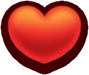
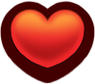
+ Keyboard Control + Score Bar + Bug Fix (EndGame Text, Score Calculation, 404, Heart Image) + API Calls (Begin & End)

diff --git a/conversation_simulator/src/states/Game.js b/conversation_simulator/src/states/Game.js
@@ -29,6 +29,7 @@ export default class extends Phaser.State {
     }
 
     create() {
+        this.cursors = game.input.keyboard.createCursorKeys();
         this.phaserJSON = this.cache.getJSON('gameSetup');
          window.speechSynthesis.getVoices();
 
@@ -82,6 +83,19 @@ export default class extends Phaser.State {
 
 
                 enterSpriteButton.events.onInputDown.add(this.SayItByCustomer, this);
+
+
+
+                let deleteSpriteButton = game.add.sprite(0, 0, 'iconDelete');
+                //enterSpriteButton.scale.set(0.7 * game.scaleRatio);
+                deleteSpriteButton.anchor.set(0.5);
+                deleteSpriteButton.x = this.textBox.x + (this.textBox.width * game.scaleRatio) + enterSpriteButton.width+5;
+                deleteSpriteButton.y = this.textBox.y + this.textBox.height / 2 ;
+                deleteSpriteButton.inputEnabled = true;
+                deleteSpriteButton.input.priorityID = 0;
+
+
+                deleteSpriteButton.events.onInputDown.add(this.deleteBox, this);
                 // let menuSpriteButton = game.add.sprite(this.game.width - 100, 100, 'openmenu');
                 // menuSpriteButton.scale.set(0.7 * game.scaleRatio);
                 // menuSpriteButton.anchor.set(0.5);
@@ -109,6 +123,9 @@ export default class extends Phaser.State {
             text: '0',
             cloudEnabled: true
         });
+
+
+
         this.addScoreText = new FreeText({
             game: this.game,
             x: this.world.width * 0.75,
@@ -173,21 +190,22 @@ export default class extends Phaser.State {
                 this.patienceBarsGroup.x =  this.world.width * 0.1;
                 this.patienceBarsGroup.y = this.game.world.centerY * 0.1 - 15;
 
-                
                 this.ConversationStart();
             });
         this.customer.setAnimationSpeedPercent(100);
         this.customer.playAnimationByName('_RUN');
+
+
         game.add.tween(this.customer).to({ x: this.world.width * 0.7 * game.scaleRatio }, 1500, Phaser.Easing.Linear.None, true, 1500)
             .onComplete.add(() => {
                 this.customer.setAnimationSpeedPercent(100);
                 this.customer.playAnimationByName('_IDLE');
-             
-                this.scoreText = game.add.text(this.world.width * 0.78, this.game.world.centerY * 0.1, 'Score : 0', {
-                    font: "40px Berkshire Swash",
+                var image = game.add.image(this.world.width * 0.78, this.game.world.centerY * 0.02, 'scoreBar');
+                this.scoreText = game.add.text(this.world.width * 0.89, this.game.world.centerY * 0.16, '0', {
+                    font: "60px Berkshire Swash",
                     fill: 'black'
                 });
-                this.scoreText.anchor.setTo(0,0.5);
+                this.scoreText.anchor.setTo(0.5,0.5);
             });
 
     }
@@ -264,8 +282,10 @@ export default class extends Phaser.State {
     }
 
     SayItByCustomer() {
+      
         console.log('textnya = ' +this.textBox.value.length)
         if(this.textBox.value.length>0 ){
+        this.onSelection = false;
         this.destroySideMenu();
 
         var text = this.textBox.value;
@@ -300,6 +320,12 @@ export default class extends Phaser.State {
         })
 
         }
+    }
+
+     deleteBox() {
+
+        this.textBox.setText("");
+        
     }
 
     SayItByCook(text, submitResult) {
@@ -388,6 +414,67 @@ export default class extends Phaser.State {
     }
 
     update() {
+        if(this.onSelection){
+            
+
+            if ( this.game.input.keyboard.justPressed(Phaser.KeyCode.RIGHT) ){
+                 console.log("just pressed 1");
+                 console.log("pencet kanan" + this.selection +" - "+this.ansLength);
+                 this.listView.items[this.selection].frame = 0;
+                
+
+                    this.selection+=1;
+                    if(this.selection>this.ansLength-1){
+                        this.selection = 0;
+                    }
+
+                     this.listView.items[this.selection].frame = 1;
+            }
+
+            if ( this.game.input.keyboard.justPressed(Phaser.KeyCode.LEFT) ){
+                 console.log("just pressed 1");
+                 console.log("pencet kanan" + this.selection +" - "+this.ansLength);
+                 this.listView.items[this.selection].frame = 0;
+                
+
+                    this.selection-=1;
+                    if(this.selection<0){
+                        this.selection = this.ansLength-1;
+                    }
+
+                     this.listView.items[this.selection].frame = 1;
+            }
+
+            if ( this.game.input.keyboard.justPressed(Phaser.KeyCode.UP) || this.game.input.keyboard.justPressed(Phaser.KeyCode.SPACEBAR) ){
+                 //SayItByCustomer(this.listView.items[this.selection].text);
+                 this.addCharToNode(this.listView.items[this.selection]);
+            }
+
+            if ( this.game.input.keyboard.justPressed(Phaser.KeyCode.DOWN) || this.game.input.keyboard.justPressed(Phaser.KeyCode.BACKSPACE) ){
+                 //SayItByCustomer(this.listView.items[this.selection].text);
+                 this.deleteBox();
+            }
+
+              if ( this.game.input.keyboard.justPressed(Phaser.KeyCode.ENTER) ){
+                 this.SayItByCustomer();
+               
+            }
+
+
+            /*
+            if (this.cursors.right.isDown)
+            {
+                
+
+            }
+            else if (this.cursors.left.isDown)
+            {
+                game.camera.x += 4;
+            }
+            */
+
+        }
+
         //this.spritesGroup.updateAnimation();
         this.cook.updateAnimation();
          this.customer.updateAnimation();
@@ -395,7 +482,7 @@ export default class extends Phaser.State {
         this.textBox.endFocus();
         // Keep the score up to date
         if (this.stateMachine && this.scoreText) {
-            this.scoreText.text = 'Score : '+this.stateMachine.getScore();
+            this.scoreText.text = this.stateMachine.getScore();
         }
 
     }
@@ -557,7 +644,7 @@ export default class extends Phaser.State {
     }
 
     createSideMenu() {
-
+        this.onSelection = true;
 
         this.sidemenu = this.game.add.sprite(this.game.width, this.game.height, 'sidemenu');
         this.sidemenu.height = this.game.height;
@@ -576,7 +663,13 @@ export default class extends Phaser.State {
 
         var i = 0;
         var rect;
+
+        this.selection = 0;
+        this.ansLength = 0;
+
+
         this.stateMachine.getAnswerWords().forEach((word) => {
+            this.ansLength+=1
             var item = this.game.add.sprite(0, 0, 'sidebg');
            // item.scale.set(0.8 * game.scaleRatio);
             item.text = word;
@@ -586,6 +679,7 @@ export default class extends Phaser.State {
             character.scale.set((2.05 - (word.length*0.17)) * game.scaleRatio);
             rect = new Phaser.Rectangle(item.x, item.y, item.width, item.height);
             character.alignIn(rect, Phaser.CENTER, 0, 0);
+            item.frame = 0;
             item.addChild(character);
 
             character.inputEnabled = true;
@@ -598,6 +692,10 @@ export default class extends Phaser.State {
             item.events.onInputDown.add(this.addCharToNode, this);
             this.listView.add(item);
         });
+
+        console.log("asd = "+ this.listView.items[2].text);
+        this.listView.items[this.selection].frame = 1;
+
        /* this.listView.grp.visible = false;
         this.openSidemenu = this.game.add.tween(this.sidemenu).to({ y: this.game.height }, 1000, Phaser.Easing.Exponential.Out);
         this.closeSidemenu = this.game.add.tween(this.sidemenu).to({ y: this.game.height }, 1000, Phaser.Easing.Exponential.Out);

diff --git a/conversation_simulator/src/states/Splash.js b/conversation_simulator/src/states/Splash.js
@@ -61,11 +61,11 @@ export default class extends Phaser.State {
         this.load.xml('wizardAnimations', 'assets/images/res/'+phaserJSON.leftperson+'/anim.scml')
 
         // load bar for patience
-        this.load.spritesheet('patienceBar5', 'assets/images/res/lopelope.png', 89, 75);
-        this.load.spritesheet('patienceBar4', 'assets/images/res/lopelope.png', 89, 75);
-        this.load.spritesheet('patienceBar3', 'assets/images/res/lopelope.png', 89, 75);
-        this.load.spritesheet('patienceBar2', 'assets/images/res/lopelope.png', 89, 75);
-        this.load.spritesheet('patienceBar1', 'assets/images/res/lopelope.png', 89, 75);
+        this.load.spritesheet('patienceBar5', 'assets/images/res/lopelope.png', 95, 84);
+        this.load.spritesheet('patienceBar4', 'assets/images/res/lopelope.png', 95, 84);
+        this.load.spritesheet('patienceBar3', 'assets/images/res/lopelope.png', 95, 84);
+        this.load.spritesheet('patienceBar2', 'assets/images/res/lopelope.png', 95, 84);
+        this.load.spritesheet('patienceBar1', 'assets/images/res/lopelope.png', 95, 84);
 
         this.load.atlas('gnome', 'assets/images/res/'+phaserJSON.rightperson+'/anim.png', 'assets/images/res/'+phaserJSON.rightperson+'/anim.json')
         this.load.xml('gnomeAnimations', 'assets/images/res/'+phaserJSON.rightperson+'/anim.scml')
@@ -74,6 +74,8 @@ export default class extends Phaser.State {
         this.load.image('iconAttack', 'assets/images/res/icon-attack.png');
         this.load.image('iconHome', 'assets/images/icon-home.png');
         this.load.image('iconPlay', 'assets/images/res/button-start.png');
+         this.load.image('scoreBar', 'assets/images/res/score-board.png');
+         this.load.image('iconDelete', 'assets/images/res/icon-back.png');
 
         // bg
         
@@ -88,14 +90,14 @@ export default class extends Phaser.State {
         // audio
         this.load.audio('click', 'assets/audio/Click.wav')
        
-        //this.load.atlas('flags', 'assets/images/flags/flags.png', 'assets/images/flags/flags.json')
-        this.load.spritesheet('heart', 'assets/images/ss-heart.png', 48, 48, 6)
-
         //side menu
         this.load.spritesheet('sidebg', 'assets/images/res/sidebg.png', 115, 117);
 
         // game state data
         this.load.json('stateData', 'assets/data/'+phaserJSON.datafile);
+
+
+
     }
 
     loadStart() {
@@ -119,12 +121,13 @@ export default class extends Phaser.State {
         // video.play(false);
         // //  x, y, anchor x, anchor y, scale x, scale y
         // video.addToWorld(game.world.centerX, game.world.centerY, 0.5, 0.5, 0.5, 0.5);
-        let videoDuration = 6
+        let videoDuration = 1
         this.time.events.add(Phaser.Timer.SECOND * videoDuration, () => {
             document.querySelector('#intro').style.display = 'none'
             document.querySelector('#content').style.display = 'block'
             //this.state.start('GameOver', false, false, '4234')
             this.state.start('Menubefore');
+            //this.state.start('Game');
               
 
         }, this)

diff --git a/conversation_simulator/src/states/GameOver.js b/conversation_simulator/src/states/GameOver.js
@@ -20,17 +20,16 @@ import PhaserJuicy from '../libs/juicy'
 import config from '../config';
 import WebFont from 'webfontloader'
 import Spriter from '../libs/spriter'
+import jQuery from 'jquery'
 
 export default class extends Phaser.State {
     init(customParam) {
-        		
+        this.phaserJSON = this.cache.getJSON('gameSetup');	
 		this.game.stage.backgroundColor = "#00B3C1";
 	    let gameover = game.add.sprite(game.world.centerX, game.world.centerY, 'gameover');
         gameover.anchor.set(0.5);
-		
-        this.setText('asd'+customParam);
-
-       
+        this.setText(customParam);
+         jQuery.post( "https://dtml.org/api/User/Activity", { activity: this.phaserJSON.title, time: "",  eventType: "GameCompleted", EventData: customParam } );
     }
 
     shutdown() {

diff --git a/conversation_simulator/src/states/Menu.js b/conversation_simulator/src/states/Menu.js
@@ -18,6 +18,7 @@ import FreeText from '../sprites/FreeText'
 import Border from '../sprites/Border'
 import Spriter from '../libs/spriter'
 import Background from '../sprites/background'
+import jQuery from 'jquery'
 
 
 
@@ -62,6 +63,7 @@ export default class extends Phaser.State {
                 // menuSpriteButton.inputEnabled = true;
                 // menuSpriteButton.input.priorityID = 0;
                 // menuSpriteButton.events.onInputDown.add(this.openMenu, this);
+                jQuery.post( "https://dtml.org/api/User/Activity", { activity: this.phaserJSON.title, time: "", eventType: "GameStarted", EventData: "" } );
       
     }
 

diff --git a/conversation_simulator/src/StateMachine.js b/conversation_simulator/src/StateMachine.js
@@ -60,7 +60,7 @@ export default class {
             }
             else {
                 this.submitSolutionResult = false;
-                this.score -= result;
+                //this.score -= result;
             }
         });
         //https://dtml.org/api/GameService/ScorePhrase/?phrase=eggs%27please 
